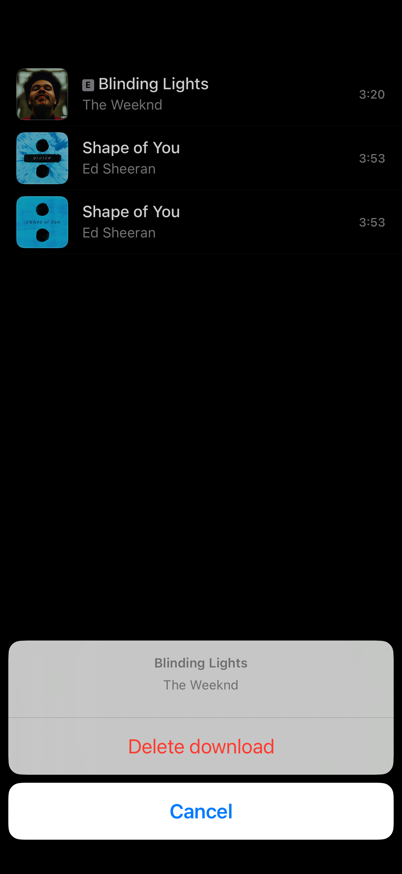
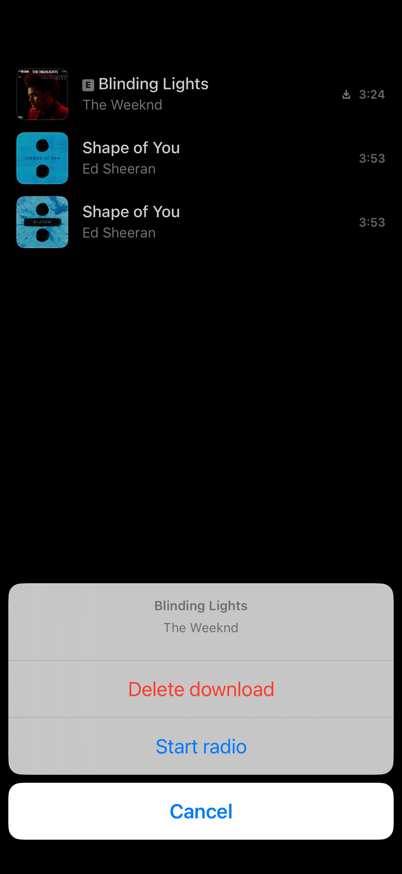
Record the green run, its numbers and the rebuilt IPA
All three jobs pass on the local locker, queue history, radio, syllable karaoke,
artist pages, moods, the downloaded badge and the cache limit, with the locker
and history read back by a fresh process after a force-quit. The audit now
states what is proven and what iOS 12 genuinely forbids.

diff --git a/AUDIT.md b/AUDIT.md
@@ -28,6 +28,11 @@ Every push runs three jobs (`.github/workflows/ios12-v2.yml`):
    a background transfer that is resumed, and one that is force-quit. The job
    fails if any assertion or any expected screenshot is missing.
 
+Latest full run: commit `604452f`, all three jobs green (`43375904069`). The
+committed IPA was built by that run and inspected again locally:
+`MinimumOSVersion 12.0`, `UIDeviceFamily [1,2]`, executable `arm64`
+(`cputype 0x100000c`), 16,906,942 bytes.
+
 The harness (`Sources/ScreenshotHarness.swift`) touches the app the way a user
 does: presents screens, taps table rows, opens the long-press sheet, plays
 tracks, and photographs the result. Where a platform state cannot exist in CI
@@ -52,7 +57,7 @@ the real one and only its input is injected; those two are named below.
 | Storage cap, Wi-Fi-only, background transfers | `DownloadStore`, `AppDelegate` | below |
 | Playlist sync by public YouTube Music link | `PlaylistSync`, `LibraryStore` | `sync.tracks=100`, relaunch read-back, `playlist-synced.png` |
 | Lossless addon | `AddonService`, Settings | `addon.label=Lossless · 1411 kbps` |
-| Cache limit + clearing | `CacheStore`, Settings | `cache.limit=250 MB`, `cache.freed=7868416`, `settings-cache.png` |
+| Cache limit + clearing | `CacheStore`, Settings | `cache.limit=250 MB`, `cache.freed=11026432`, `settings-cache.png` |
 | 73 settings keys, persistence | `SettingsStore`, `SettingsViewController` | `settings.png`, `settings-downloads.png` |
 
 Screens are laid out for a 320 pt width (the SE) and verified at that size in CI;
@@ -72,10 +77,10 @@ nothing in the app assumes an iPhone X-class safe area.
 
 Measured in CI (reports committed under `shots-v2/`):
 
-- **Relaunch**: `resume.saved=1`, `resume.totalBytes=8197355` — the index and file
+- **Relaunch**: `resume.saved=1`, `resume.totalBytes=8182315` — the index and file
   survived a restart.
 - **Offline**: `localPlayback=true`, `source=Downloaded`.
-- **Quality changes the rendition**: `JioSaavn 320kbps` at 8197355 B against
+- **Quality changes the rendition**: `JioSaavn 320kbps` at 8182315 B against
   `Data saver` at 2489491 B; `afinfo` in CI measures 326337 bps vs 98124 bps.
 - **Cap**: `cap.blocked=true`, `cap.reason=Storage limit reached.`,
   `cap.savedUnchanged=true`, and at a 1 MB limit `cap.lowLimitCount=1` with
@@ -85,16 +90,29 @@ Measured in CI (reports committed under `shots-v2/`):
   `background.phantom=false`.
 - **Background force-quit**: `verify.pendingAtLaunch=1`,
   `background.reported=true`, `background.reason=Download interrupted. Tap to try
-  again.`, `background.pendingAfter=0`.
+  again.`, `background.pendingAfter=0`, `background.failed=1`.
+- **The same fresh process reads the locker and the history back**:
+  `verify.localTracks=1`, `verify.localTitle=01 Levitating`, `verify.history=3`,
+  `verify.historyTop=Blinding Lights` — three songs were played during the
+  capture, and only the last 25 are kept by design.
 - **Addon vs catalogue**: `Lossless · 1411 kbps` (775186 bps / 3883053 B) against
   `JioSaavn 320kbps` (320353 bps / 8198941 B), both fetched by the app.
 - **Sync**: 100 songs, first and last titles recorded, read back after a fresh
   launch; the failure path leaves the saved set unchanged and shows
   `sync-failed.png`.
-- **Local music**: the locker finds the folder, shows it, plays the file through
-  the local branch, and a fresh process still lists it.
-- **Radio**: the catalogue seed is resolved to its YouTube recording, the mix
-  replaces the queue and plays, and the failure alert is photographed.
+- **Local music**: `local.folders=1`, `local.tracks=1`,
+  `local.title=01 Levitating`, `local.playing=true`, engine
+  `native Local Music t=1.0/204`, and a fresh process still lists it.
+- **Queue history**: `history.count=2`, `history.limit=25`,
+  `history.top=Shape of You`, shown as its own section above the queue.
+- **Karaoke**: enhanced-LRC tags parse into three timed syllables
+  (`lyrics.words=3`, `lyrics.syllables=3`), the highlight advances with the
+  clock (`lyrics.revealAdvance=true`), and live lyrics from the real source are
+  word-synced when the file carries tags.
+- **Radio**: `radio.seed=catalogue-resolved`, `radio.tracks=50`,
+  `radio.first=Blinding Lights`, `radio.playing=true`, `radio.queued=50` — the
+  catalogue seed was resolved to its YouTube recording, the mix replaced the
+  queue and played. The refusal path is photographed as `radio-failed.png`.
 - **Cache**: a known 1 MB file plus the app's own caches are cleared;
   `cache.freed` is the measured difference.
 - **Menus**: `sheet.delete.downloaded=true`, `sheet.cancel.downloading=true`,
@@ -135,3 +153,21 @@ this repository, and the app says so in Settings rather than pretending.
   `NSURLErrorUnknown (-1)` before a byte arrives; the store retries once in a
   foreground session and records `transport`. On a device the first session is
   the one that runs.
+
+## Commit log (this pass)
+
+| Commit | Scope |
+| --- | --- |
+| `b9b7ab7` | Local locker, queue history, radio service, syllable LRC, downloaded badge, cache limit |
+| `83d880f` | Radio seeds resolved onto YouTube; artist rows/pages from YouTube Music |
+| `0745c81` | Mix endpoint asked for a radio (`params=wAEB`) |
+| `3d50e7d` | Sync probe skips channel ids and retries the next real playlist |
+| `01e2a0f` | Radio probe drives the menu path, seed resolution included |
+| `ebb545a` | Play pill readable on the white accent; capture screens get their nav bars |
+| `32af791` | Radio probe reports the mix the service loaded |
+| `f935f34` | Local engine assertion matches the app; audit rewritten |
+| `604452f` | Artist assertion matches the harness key — all three jobs green |
+
+Earlier passes covered the download store and offline playback, the storage cap,
+background transfers, addon tiers and playlist sync (`add1ae1`), and the four
+tabs, search/browse, Now Playing and Settings before that.
